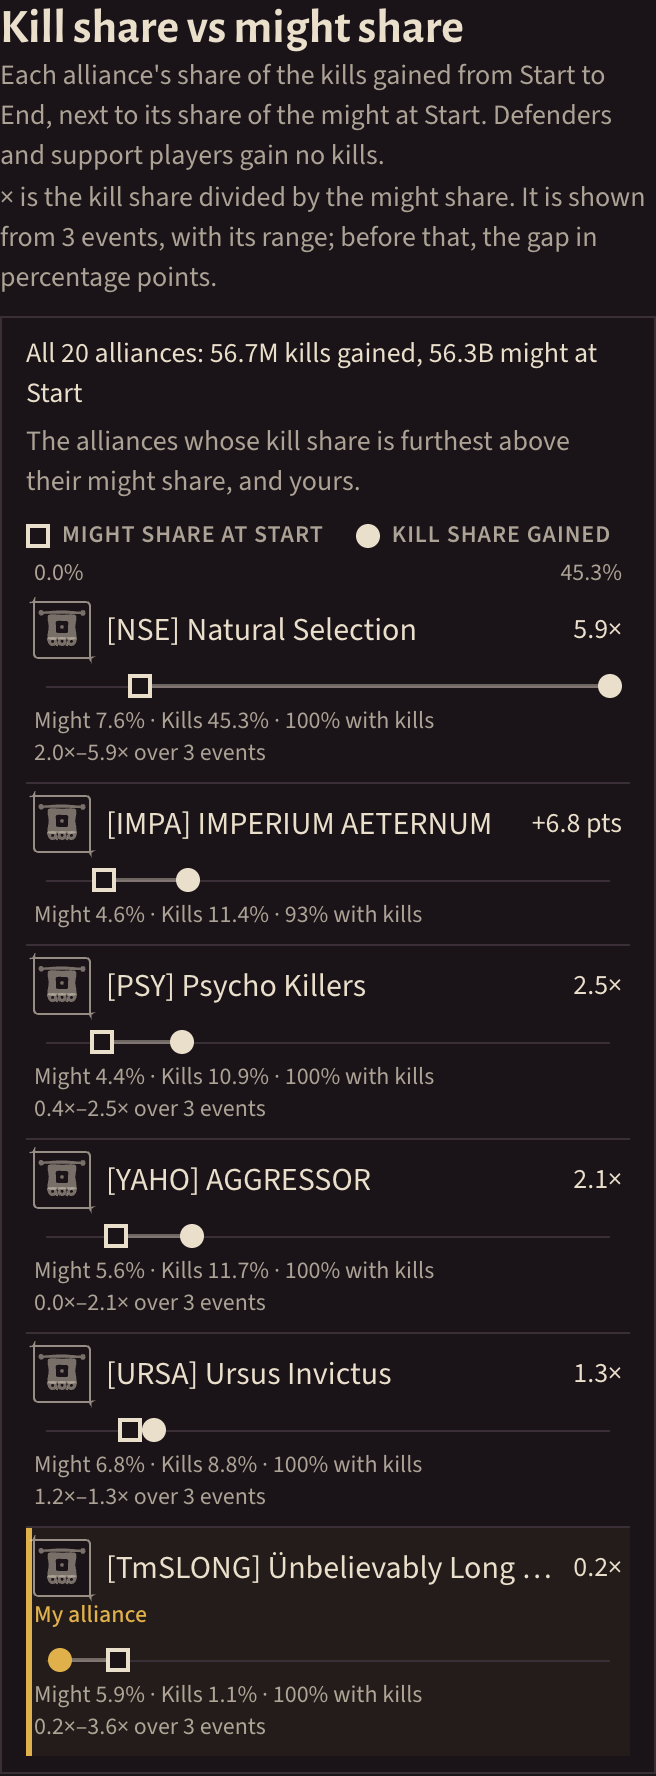
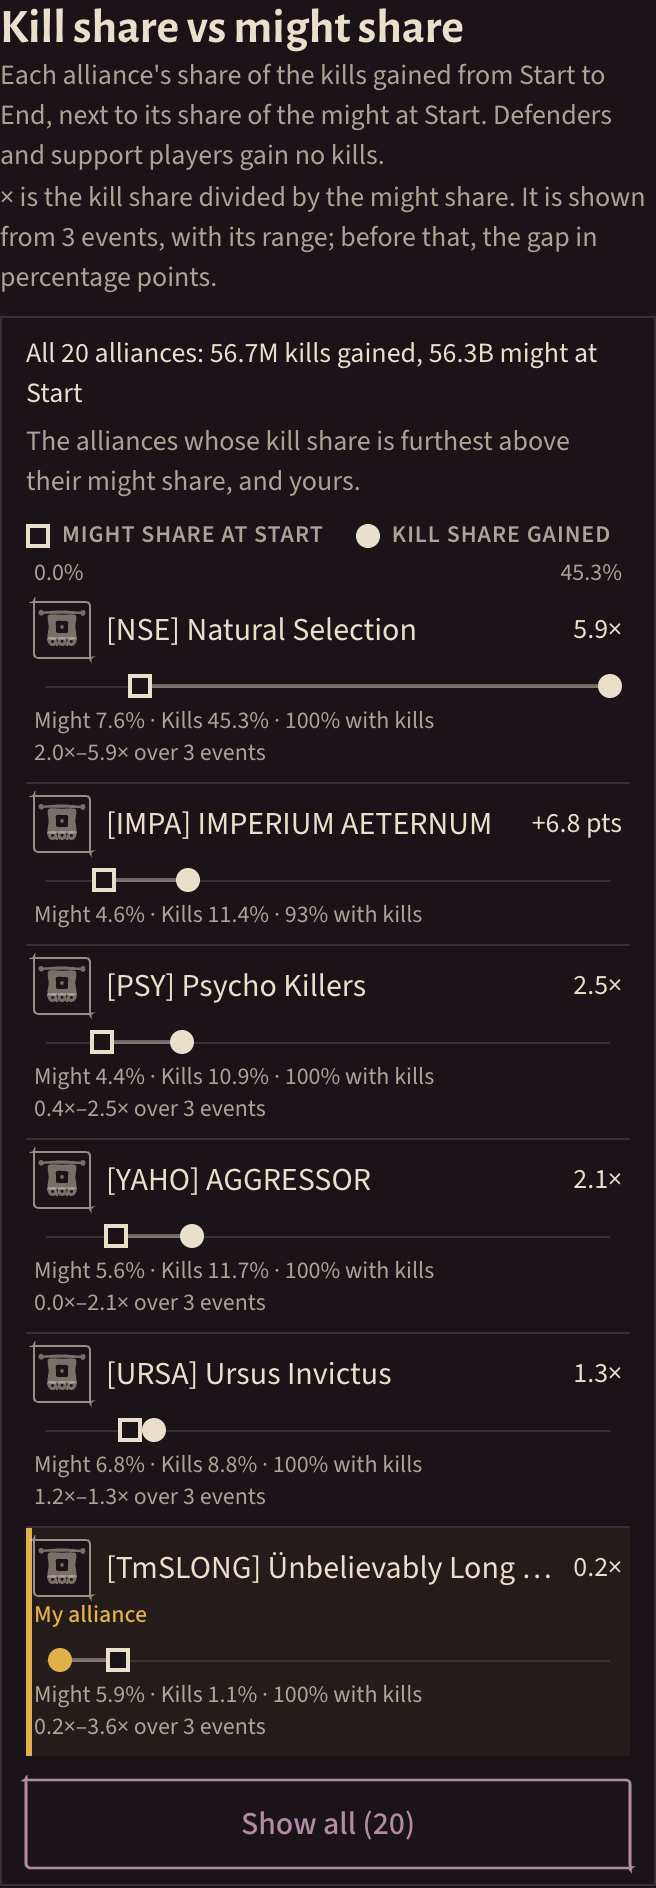
feat(events): Show all on kill share vs might share, owner decision (UX review of #338)

diff --git a/app/_ui/WhoCarried.tsx b/app/_ui/WhoCarried.tsx
@@ -3,10 +3,11 @@
 // "Kill share vs might share" (issue 280, D83): one row per alliance with two marks on one percent axis,
 // a square for its share of the might at Start and a round one for its share of the kills gained, joined
 // by a line. Rows come biggest gap first. Only the first TOP rows whose kill share is above their might
-// share are shown, and the viewer's own wherever it is: there is no bottom list and no "Show all". The
+// share are shown, and the viewer's own wherever it is, until "Show all (n)" opens every row (owner, D83). The
 // ratio is shown only for an alliance with enough events, with its range; otherwise the gap in points.
 // Marks and the line are plain HTML boxes (D68); every figure is also text. No member is named.
 import Link from "next/link";
+import { useState } from "react";
 
 import { fill } from "@/lib/copy";
 import type { Carried, CarriedRow } from "@/lib/queries";
@@ -22,13 +23,15 @@ import {
 import { useCopy, useLocale } from "./LocaleProvider";
 import { useMyAlliance } from "./MyAlliance";
 import { AllianceBadge } from "./Pictures";
+import { ShowAllButton } from "./ShowFirst";
 import { LABEL } from "./StatTable";
 
 /** Rows shown besides the viewer's own. */
 const TOP = 5;
 
-/** The rows shown: the first TOP with a kill share above the might share, and the viewer's own. */
-export function visibleRows(rows: CarriedRow[], mine: number | null): CarriedRow[] {
+/** The rows shown: all of them once expanded (owner, D83), else the first TOP above the might share and the viewer's own. */
+export function visibleRows(rows: CarriedRow[], mine: number | null, all = false): CarriedRow[] {
+  if (all) return rows;
   const above = rows.filter((r) => r.killShare > r.mightShare).slice(0, TOP);
   const own = rows.find((r) => r.unionId === mine);
   return own && !above.includes(own) ? [...above, own] : above;
@@ -115,7 +118,8 @@ export function WhoCarried({ eventId, carried }: { eventId: number; carried: Car
   const locale = useLocale();
   const mine = useMyAlliance();
   const l = copy.ledger;
-  const shown = visibleRows(carried.rows, mine);
+  const [all, setAll] = useState(false);
+  const shown = visibleRows(carried.rows, mine, all);
   // One axis for every row: from 0 to the largest share among the rows shown.
   const axis = Math.max(...shown.flatMap((r) => [r.mightShare, r.killShare]), 0.01);
   const { totals } = carried;
@@ -134,7 +138,7 @@ export function WhoCarried({ eventId, carried }: { eventId: number; carried: Car
             might: compact(totals.might, locale),
           })}
         </p>
-        <p className="mt-1 text-body-sm text-ink/70">{l.carriedShown}</p>
+        {!all && <p className="mt-1 text-body-sm text-ink/70">{l.carriedShown}</p>}
         <p className={`mt-2 flex flex-wrap items-center gap-x-4 gap-y-1 ${LABEL}`}>
           <span className="flex items-center gap-1.5">
             <span aria-hidden="true" className="size-3 border-2 border-ink bg-paper" />
@@ -157,6 +161,9 @@ export function WhoCarried({ eventId, carried }: { eventId: number; carried: Car
             <Row key={r.unionId} r={r} eventId={eventId} axis={axis} mine={r.unionId === mine} />
           ))}
         </ol>
+        {shown.length < carried.rows.length && (
+          <ShowAllButton n={carried.rows.length} onClick={() => setAll(true)} />
+        )}
       </div>
     </section>
   );

diff --git a/app/_ui/WhoCarried.test.ts b/app/_ui/WhoCarried.test.ts
@@ -41,6 +41,9 @@ describe("WhoCarried", () => {
     it("shows the first 5 rows above their might share, and never a row below it", () => {
       expect(ids(visibleRows(rows, null))).toEqual([1, 2, 3, 4, 5]);
     });
+    it("shows every row in the same order once expanded", () => {
+      expect(ids(visibleRows(rows, null, true))).toEqual([1, 2, 3, 4, 5, 6, 7, 8, 9]);
+    });
     it("adds the viewer's own alliance wherever it is", () => {
       expect(ids(visibleRows(rows, 9))).toEqual([1, 2, 3, 4, 5, 9]);
     });

diff --git a/docs/handoff/08zzzzk-who-carried.md b/docs/handoff/08zzzzk-who-carried.md
@@ -11,7 +11,7 @@ Refs #280. Decision: D83.
 - **Decision** `docs/decisions/D83-kill-share-vs-might-share.md` and its README line.
 
 ## Decisions
-- **No "Show all".** The issue's placement note suggests the WhoFought pattern; the binding "no bottom list" review rule wins, because an expanded list sorted by the gap ends with the lowest kill shares. The section shows the first 5 rows with a kill share above the might share, plus the viewer's own row.
+- **Superseded 2026-11-16 (owner): "Show all (n)" was added, see "UX review" below.** Original text: **No "Show all".** The issue's placement note suggests the WhoFought pattern; the binding "no bottom list" review rule wins, because an expanded list sorted by the gap ends with the lowest kill shares. The section shows the first 5 rows with a kill share above the might share, plus the viewer's own row.
 - **Shares are over the alliances with a usable Start and End.** An alliance with a stale or failed side has no figure and is not in the totals, so the shares add up to 100 % of the same set.
 - **"Kingdom" is the tracked alliances.** The total line says `All {n} alliances: {kills} kills gained, {might} might at Start`.
 - **A KvK is any event of `chainEvent`** (the schema has no event kind). The ratio needs 3 ratios counting this event; earlier events count whether or not they have samples. The range is over those ratios (`1.8×–2.9× over 4 events`). Up to 12 earlier events are read.
@@ -21,7 +21,7 @@ Refs #280. Decision: D83.
 - **Translations**: 17 languages, at most 3 translators at a time. The first run of `vi` and `th` read stale todo files from the shared scratch folder and wrote a `merge` section; those two files were restored from git and translated again.
 
 ## Deviations
-- No "Show all" (see Decisions). Not pushed and no PR opened (the sandbox blocks `git push`); the orchestrator does it. The PR URL line is left out.
+- No "Show all" (superseded, see Decisions). Not pushed and no PR opened (the sandbox blocks `git push`); the orchestrator does it. The PR URL line is left out.
 
 ## Verified
 - `pnpm check`: prettier, eslint, tsc, vitest (97 files passed, 2 skipped), drift and i18n ("17 languages up to date with English") green.
@@ -29,6 +29,12 @@ Refs #280. Decision: D83.
 - Chrome, light and dark, at 360, 390, 412, 640 and 1280 px: the page's `scrollWidth` equals its width at every size; the section's right edge is 344 px at 360 and 396 px at 412.
 - Screenshots: `docs/screenshots/08zzzzk-who-carried-360-light.png`, `-360-dark.png`, `-1280-light.png`, `-1280-dark.png`.
 - Not run: 390 and 412 px visual review beyond the overflow measure; WebKit; a real KvK's numbers (the seed is synthetic, so the 11.2× style ratios in the screenshots are not real).
+
+## UX review (2026-11-16)
+Measured (Chrome, light and dark, 360, 390, 412, 600, 768, 810, 820, 1024, 1180, 1280; WebKit 390 and 820, light and dark; German and Russian at 360): `scrollWidth` equals the viewport width everywhere, with the list collapsed and expanded; no tap target under 44 px (rows are 44 px or more, "Show all" is a `buttonClass` button); no text under 4.5:1 (computed against the real background, ink/70 text included); no figure clipped. The only clipped text is a long alliance name (`[TmSLONG] Ünbelievably Long Allianz Nam`) at 360 to 412 px and `[IMPA] IMPERIUM AETERNUM` in German at 360 px: both end in an ellipsis after the tag, as in War turnout. The section has no `<select>`.
+Fixed: owner decision 2026-11-16, "Show all (n)" opens every alliance with a figure in the same order (D83 amendment); the "furthest above their might share" line is hidden once the list is open because it no longer describes the rows; one test for the expanded order.
+Left: (1) rows with a ratio and rows with `pts` share a list (open issue 2, owner decision). (2) One large alliance sets the axis, so the others sit near the left end; the figures are text, so nothing is lost. (3) The first phone screen reads title, two help lines, then data; a one-sentence takeaway above the rows would need new copy in 17 languages. (4) At 820 px and wider the rows are full width with 12 px text; the same as War turnout.
+Reader's 3-second takeaway: before and after, "each alliance's kills against its might, one row each, the first one with 5.9x" (the data, not a sentence). Wording has no blame words in English, German or Russian.
 
 ## Open issues
 1. **The ratio's range is over 12 earlier events at most**, and a Start that did not match the battle window still yields a ratio for that event. The range shows the spread but does not exclude such an event.

diff --git a/docs/decisions/D83-kill-share-vs-might-share.md b/docs/decisions/D83-kill-share-vs-might-share.md
@@ -6,6 +6,7 @@ Why: leaders decide titles and rewards after a KvK and want to see which allianc
 - **Placement.** A section on the event page right after "War turnout" (`app/_ui/WhoCarried.tsx`), only for an event with both a Start and an End and at least one alliance with a usable figure. While the event has no End the section is not shown.
 - **What a row is.** One alliance: a square mark for its might share at Start and a round mark for its kill share gained, joined by a line, on one axis from 0 to the largest share among the rows shown. Under it the two shares as text, and the alliance's share of members with kills gained from #271 when it has one. The marks and the line are HTML boxes (D68); every figure is also text. The row links to the alliance's event page. The viewer's alliance (`useMyAlliance`) is highlighted and always shown.
 - **Arithmetic** (`carriedShares`, `lib/compute.ts`). Shares are taken over the alliances with a usable Start and End and all three totals present; an alliance whose Start or End row is stale or failed has no figure and is not in the denominators (INVARIANT freshness.no-stale-delta). A fall in an alliance's kills total is a gain of 0. When the set has no might or no kills gained there is no section.
-- **Order and no bottom list** (adopted adversarial review). Rows come biggest gap first (kill share minus might share). The page shows the first 5 rows whose kill share is above their might share, and the viewer's own. It never shows a "worst" list: there is no "Show all", because an expanded list sorted by the gap ends with the alliances whose kill share is lowest. Defenders and support players gain no kills; the section says so under its title. The kingdom's total (alliances counted, kills gained, might at Start) is one line above the rows.
+- **Order and no bottom list** (adopted adversarial review). Rows come biggest gap first (kill share minus might share). The page shows the first 5 rows whose kill share is above their might share, and the viewer's own. (Superseded by the 2026-11-16 amendment below.) It never shows a "worst" list: there is no "Show all", because an expanded list sorted by the gap ends with the alliances whose kill share is lowest. Defenders and support players gain no kills; the section says so under its title. The kingdom's total (alliances counted, kills gained, might at Start) is one line above the rows.
 - **Ratio only from 3 events, with its range** (adopted adversarial review; `CARRIED_MIN_EVENTS = 3`). An alliance's ratio is shown only when it has a ratio in at least 3 events, counting this one: the up to 12 earlier events of `chainEvent` (real events and manual rounds public in history) before this one, whether or not they have samples, plus this one. Then the row shows the ratio and its lowest and highest ratio over those events (`1.8×–2.9× over 4 events`). With fewer events the row shows the two shares and the gap in percentage points (`+6.1 pts`), and no ratio. The earlier events are read from the alliance totals by `lib/queries/carried.ts`, one query for the event ids and one for their rows.
-- **Not done.** A "Show all" list (see above), a ratio for an event in progress, weighting by members, a link from the Discord picture (#276).
+- **Amendment 2026-11-16 (owner): "Show all (n)".** The owner overrides the no-bottom-list rule above. The default view stays (first 5 rows above their might share, the viewer's own, the kingdom's total line); a "Show all (n)" button (`ShowAllButton`, as in WhoFought) opens every alliance with a figure, in the same order (biggest gap first). Wording stays neutral: no "worst" or "bottom"; the defenders and support note stays. The line "the alliances whose kill share is furthest above..." is hidden once the list is open, because it no longer describes the rows.
+- **Not done.** A ratio for an event in progress, weighting by members, a link from the Discord picture (#276).
